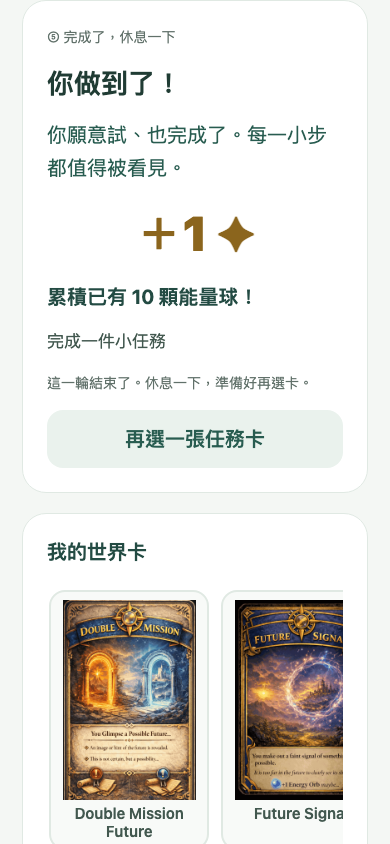
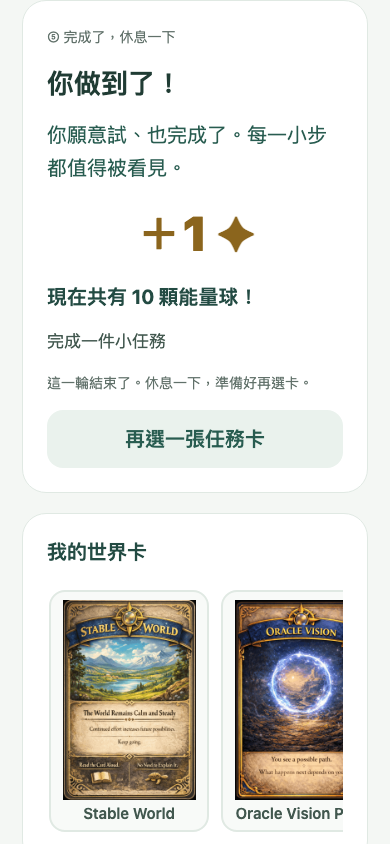
feat: add guardian collection and Sunday exchange [actor=bot approval=user:guardian-album]

diff --git a/src/LightApp.tsx b/src/LightApp.tsx
@@ -2,15 +2,28 @@ import React, { useEffect, useRef, useState } from 'react';
 import { Image, Modal, Pressable, SafeAreaView, ScrollView, StyleSheet, Text, TextInput, View } from 'react-native';
 import AsyncStorage from '@react-native-async-storage/async-storage';
 import { loadPersistedAppState } from './lib/persistence';
-import { coreGuardianArchetypeImages, coreGuardianStageImages, timeChallenges, worldEvents, sopCards, badgeImages } from './data/holtonCatalog';
+import { coreGuardianArchetypeImages, coreGuardianStageImages, timeChallenges, worldEvents, sopCards, badgeImages, guardianBeasts } from './data/holtonCatalog';
 import type { PersistedAppState } from './types/holton';
 
 const KEY = 'holton-guardian-app::light-v1';
 type RecordItem = { id: string; title: string; at: string; minutes: number; cardId?: string };
 type WorldDraw = { id: string; reason: string; cardId?: string };
-type State = { dailyGoal?: number; rewardProgress?: number; dailyRewardDay?: string; draws?: WorldDraw[]; collection?: WorldDraw[]; version: 1; cardId?: string; title: string; minutes: number; orbs: number; phase: 'ready' | 'preparing' | 'active' | 'finishing' | 'done'; deadline: number | null; remaining: number; help: boolean; history: RecordItem[]; guardian: Partial<PersistedAppState> };
+type GuardianReceipt = { cardId: string; at: string; cost: number; source: 'legacy' | 'parent-restore' | 'sunday' };
+type State = { guardianCards?: GuardianReceipt[]; companionCardId?: string; starterRestoreAt?: string; dailyGoal?: number; rewardProgress?: number; dailyRewardDay?: string; draws?: WorldDraw[]; collection?: WorldDraw[]; version: 1; cardId?: string; title: string; minutes: number; orbs: number; phase: 'ready' | 'preparing' | 'active' | 'finishing' | 'done'; deadline: number | null; remaining: number; help: boolean; history: RecordItem[]; guardian: Partial<PersistedAppState> };
 const day = (date: Date) => `${date.getFullYear()}-${date.getMonth()}-${date.getDate()}`;
 const initial = (old: Partial<PersistedAppState> | null): State => ({ version: 1, title: '', minutes: 5, orbs: typeof old?.orbs === 'number' ? old.orbs : 0, phase: 'ready', deadline: null, remaining: 300, help: false, history: [], guardian: { coreGuardianName: old?.coreGuardianName, coreGuardianId: old?.coreGuardianId, coreGuardianArchetype: old?.coreGuardianArchetype, coreGuardianStateVariant: old?.coreGuardianStateVariant, coreGuardianLevel: old?.coreGuardianLevel } });
+
+const guardianCards = guardianBeasts.flatMap(beast => beast.stages.map((stage, index) => ({
+  id: `${beast.id}:${index}`, beastId: beast.id, name: beast.name, vibe: beast.vibe, index, label: stage.label, cost: stage.cost,
+  image: coreGuardianStageImages[beast.id as keyof typeof coreGuardianStageImages][(['stage1', 'stage2', 'stage3', 'stage4'] as const)[index]],
+})));
+const taipeiWeekday = (time: number) => new Intl.DateTimeFormat('en-US', { timeZone: 'Asia/Taipei', weekday: 'short' }).format(time);
+function importGuardianCards(old: Partial<PersistedAppState> | null): GuardianReceipt[] {
+  return guardianCards.filter(card => {
+    const points = old?.guardianProgress?.[card.beastId]?.orbs;
+    return (card.index === 0 && old?.guardianCatalog?.[card.beastId]?.status === 'captured') || (typeof points === 'number' && Number.isFinite(points) && points >= card.cost);
+  }).map(card => ({ cardId: card.id, at: new Date().toISOString(), cost: 0, source: 'legacy' }));
+}
 
 export default function LightApp() {
   const [state, setState] = useState<State | null>(null);
@@ -26,6 +39,8 @@ export default function LightApp() {
   const [saving, setSaving] = useState(false);
   const [error, setError] = useState('');
   const [parent, setParent] = useState(false);
+  const [collectionOpen, setCollectionOpen] = useState(false);
+  const [guardianDetailId, setGuardianDetailId] = useState<string | null>(null);
   const [title, setTitle] = useState('');
   const [minutes, setMinutes] = useState('5');
   const [goal, setGoal] = useState('3');
@@ -38,7 +53,13 @@ export default function LightApp() {
         const raw = await AsyncStorage.getItem(KEY);
         const data: State = raw ? JSON.parse(raw) : initial(await loadPersistedAppState());
         if (data.version !== 1 || !Array.isArray(data.history) || !['ready', 'preparing', 'active', 'finishing', 'done'].includes(data.phase) || !Number.isFinite(data.orbs)) throw new Error('Invalid state');
-        if (!raw) await AsyncStorage.setItem(KEY, JSON.stringify(data));
+        if (!data.guardianCards) {
+          const old = await loadPersistedAppState();
+          data.guardianCards = importGuardianCards(old);
+          const companion = guardianBeasts.find(beast => old?.guardianCatalog?.[beast.id]?.companion);
+          data.companionCardId = companion ? data.guardianCards.filter(item => item.cardId.startsWith(`${companion.id}:`)).at(-1)?.cardId : undefined;
+          await AsyncStorage.setItem(KEY, JSON.stringify(data));
+        } else if (!raw) await AsyncStorage.setItem(KEY, JSON.stringify(data));
         if (live) { current.current = data; setState(data); setTitle(data.title); setMinutes(String(data.minutes)); setGoal(String(data.dailyGoal ?? 3)); }
       } catch { if (live) setError('資料暫時無法讀取，請重新整理。原有紀錄未變更。'); }
     })();
@@ -65,6 +86,27 @@ export default function LightApp() {
   const durationLabel = (n: number) => n === 0 ? '不限時' : `${n} 分鐘`;
   const today = state.history.filter(item => day(new Date(item.at)) === day(new Date(now)));
   const pending = state.draws?.[0];
+  const ownedIds = new Set((state.guardianCards ?? []).map(item => item.cardId));
+  const companion = guardianCards.find(card => card.id === state.companionCardId && ownedIds.has(card.id));
+  const detail = guardianCards.find(card => card.id === guardianDetailId);
+  const sunday = taipeiWeekday(now) === 'Sun';
+  const starterMissing = guardianCards.filter(card => card.index === 0 && !ownedIds.has(card.id));
+  function restoreStarters() {
+    void change(s => {
+      if (s.starterRestoreAt) return s;
+      const at = new Date().toISOString();
+      const existing = new Set((s.guardianCards ?? []).map(item => item.cardId));
+      return { ...s, starterRestoreAt: at, guardianCards: [...(s.guardianCards ?? []), ...guardianCards.filter(card => card.index === 0 && !existing.has(card.id)).map(card => ({ cardId: card.id, at, cost: 0, source: 'parent-restore' as const }))] };
+    });
+  }
+  function buyGuardian(cardId: string) {
+    void change(s => {
+      const card = guardianCards.find(item => item.id === cardId);
+      const owned = new Set((s.guardianCards ?? []).map(item => item.cardId));
+      if (!card || taipeiWeekday(Date.now()) !== 'Sun' || owned.has(cardId) || s.orbs < card.cost || (card.index > 0 && !owned.has(`${card.beastId}:${card.index - 1}`))) return s;
+      return { ...s, orbs: s.orbs - card.cost, guardianCards: [...(s.guardianCards ?? []), { cardId, cost: card.cost, at: new Date().toISOString(), source: 'sunday' }] };
+    });
+  }
   const drawnCard = worldEvents.find(card => card.id === pending?.cardId);
   function completeTask(s: State): State {
     if (s.phase !== 'finishing') return s;
@@ -93,6 +135,10 @@ export default function LightApp() {
     {error ? <Text accessibilityRole="alert" style={styles.error}>{error}</Text> : null}
     {parent ? <>
       <Text style={styles.heading}>陪他完成，不必催他加速。</Text>
+      <View style={styles.card}><Text style={styles.section}>守護獸收藏與舊卡恢復</Text><Text style={styles.body}>目前收藏 {ownedIds.size} 張。舊版能確認的卡片會自動帶入；更換陪伴夥伴不扣點，也不改變本命獸。</Text>{button('查看守護獸收藏', () => setCollectionOpen(true), true)}
+        {starterMissing.length > 0 && !state.starterRestoreAt ? <><Text style={styles.caption}>若孩子以前已兌換完五隻 Mini 初階卡，可由家長補回缺少的 {starterMissing.length} 張。只補卡，不扣點、不重複發卡。</Text>{button('補回已兌換的五隻初階卡', restoreStarters, true)}</> : <Text style={styles.caption}>初階收藏已保留，不需要重新購買。</Text>}
+        <Text style={styles.caption}>星期日兌換以台北時間為準。Mini 10、Mid 20、Final 40、Legendary 60 點；每張扣完整標示點數，按階段取得，舊卡仍保留。</Text>
+      </View>
       <View style={styles.card}><Text style={styles.section}>1 · 設定今天的一件事</Text><Text style={styles.body}>寫一件做得到的小事，例如「收好桌上的積木」。</Text>
         <Text style={styles.label}>任務名稱</Text><TextInput accessibilityLabel="任務名稱" value={title} onChangeText={setTitle} maxLength={80} editable={!['preparing', 'active', 'finishing'].includes(state.phase)} style={styles.input} placeholder="今天想完成的小事" />
         <Text style={styles.label}>建議時間（分鐘，0 為不限時）</Text><TextInput accessibilityLabel="陪伴時間（分鐘）" value={minutes} onChangeText={setMinutes} keyboardType="number-pad" editable={!['preparing', 'active', 'finishing'].includes(state.phase)} style={styles.input} />
@@ -105,9 +151,9 @@ export default function LightApp() {
       <View style={styles.card}><Text style={styles.section}>2 · 卡住時，這樣陪他說</Text><Text style={styles.quote}>「我在這裡。我們先做最小的一步，你想自己試，還是一起做？」</Text><Text style={styles.body}>時間到了也不用扣分。先看看需要幫忙，還是多一點時間。</Text></View>
       <View style={styles.card}><Text style={styles.section}>3 · 今天完成 {today.length} 件事</Text>{today.length ? today.map(item => <View key={item.id} style={styles.record}><Text style={styles.body}>✓ {item.title}</Text><Text style={styles.caption}>{new Date(item.at).toLocaleTimeString('zh-TW', { hour: '2-digit', minute: '2-digit' })} · {durationLabel(item.minutes)}{item.cardId ? ` · ${timeChallenges.find(card => card.id === item.cardId)?.name || "任務卡"}` : ""} · ＋1 能量球</Text></View>) : <Text style={styles.body}>今天還沒有完成紀錄，慢慢來就好。</Text>}<Text style={styles.caption}>輕量版紀錄保存在這台裝置、這個瀏覽器；舊版資料保留。</Text></View>
     </> : <>
-      <View style={styles.scorePanel} accessibilityLiveRegion="polite"><Text style={styles.section}>我的累積能量球</Text><Text style={styles.score}>✦ {state.orbs}</Text><Text style={styles.body}>今天 ＋{today.length} 顆 · 每次完成 ＋1</Text><Text style={styles.section}>今日任務 {today.length} / {state.dailyGoal ?? 3} {today.length >= (state.dailyGoal ?? 3) ? '✓ 全完成' : ''}</Text><Text style={styles.body}>{'● '.repeat(state.rewardProgress ?? 0)}{'○ '.repeat(3 - (state.rewardProgress ?? 0))} 再完成 {3 - (state.rewardProgress ?? 0)} 次抽世界卡</Text><Text style={styles.caption}>今天全完成也能抽卡 · 已收藏 {state.collection?.length ?? 0} 張</Text></View>
-      <View style={styles.companion}><Image accessibilityLabel="陪伴你的本命獸" source={guardianImage} style={styles.guardian} resizeMode="contain" /><Text style={styles.guardianName}>{guardian.coreGuardianName || '你的本命獸'}</Text><Text style={styles.body}>我陪你，一次完成一件小事。</Text></View>
-      <View onLayout={event => { taskTop.current = event.nativeEvent.layout.y; }} style={styles.card}><Text style={styles.caption}>{state.phase === 'ready' ? '① 選一張任務卡' : state.phase === 'preparing' ? '② 準備好再開始' : state.phase === 'active' ? '③ 一起做這件事' : state.phase === 'finishing' ? '④ 把任務收好' : '⑤ 完成了，休息一下'}</Text><Text style={styles.heading}>{state.phase === 'done' ? '你做到了！' : state.title || '今天想一起做什麼？'}</Text>
+      <View style={styles.scorePanel} accessibilityLiveRegion="polite"><Text style={styles.section}>我的可用能量球</Text><Text style={styles.score}>✦ {state.orbs}</Text><Text style={styles.body}>今天 ＋{today.length} 顆 · 每次完成 ＋1</Text><Text style={styles.caption}>守護獸兌換已用 {(state.guardianCards ?? []).filter(item => item.source === 'sunday').reduce((sum, item) => sum + item.cost, 0)} 點</Text><Text style={styles.section}>今日任務 {today.length} / {state.dailyGoal ?? 3} {today.length >= (state.dailyGoal ?? 3) ? '✓ 全完成' : ''}</Text><Text style={styles.body}>{'● '.repeat(state.rewardProgress ?? 0)}{'○ '.repeat(3 - (state.rewardProgress ?? 0))} 再完成 {3 - (state.rewardProgress ?? 0)} 次抽世界卡</Text><Text style={styles.caption}>今天全完成也能抽卡 · 已收藏 {state.collection?.length ?? 0} 張</Text></View>
+      <View style={styles.companion}><Text style={styles.section}>{companion ? '今日守護夥伴' : '你的本命獸'}</Text><Image accessibilityLabel={companion ? `${companion.name} ${companion.label} 今日守護夥伴` : '陪伴你的本命獸'} source={companion?.image ?? guardianImage} style={companion ? styles.companionArt : styles.guardian} resizeMode="contain" /><Text style={styles.guardianName}>{companion ? `${companion.name} · ${companion.label}` : guardian.coreGuardianName || '你的本命獸'}</Text><Text style={styles.body}>我陪你，一次完成一件小事。</Text>{companion ? <Text style={styles.caption}>本命獸：{guardian.coreGuardianName || '你的本命獸'} · 身分保留</Text> : null}{button('我的守護獸收藏', () => setCollectionOpen(true), true)}</View>
+      <View onLayout={event => { taskTop.current = event.nativeEvent.layout.y; }} style={styles.card}><Text style={styles.caption}>{state.phase === 'ready' ? '① 選一張任務卡' : state.phase === 'preparing' ? '② 準備好再開始' : state.phase === 'active' ? '③ 一起做這件事' : state.phase === 'finishing' ? '④ 把任務收好' : '⑤ 完成了，休息一下'}</Text>{companion && ['preparing', 'active', 'finishing'].includes(state.phase) ? <View style={styles.companionRow}><Image source={companion.image} accessibilityLabel={`${companion.name} 陪你做任務`} style={styles.companionThumb} resizeMode="contain" /><Text style={styles.caption}>{companion.name} 陪你一起做</Text></View> : null}<Text style={styles.heading}>{state.phase === 'done' ? '你做到了！' : state.title || '今天想一起做什麼？'}</Text>
       {state.phase === 'ready' ? <>
         <Text style={styles.body}>{state.title ? '今天做這件事，時間由你選。' : '先想好一件小事，再選一張卡陪你完成。家長也能幫你填任務。'}</Text>
         <Text style={styles.caption}>左右滑動選卡 · 每完成一輪 ＋1 能量球</Text>
@@ -136,11 +182,26 @@ export default function LightApp() {
         <Text style={styles.body}>{state.help ? '先停一下，我們一起來。' : state.minutes !== 0 && remaining === 0 ? '時間到了。還沒做好也沒關係，可以慢慢完成。' : '照自己的速度來。'}</Text>
         {state.help ? <><Text style={styles.quote}>「我在這裡。我們先做最小的一步，好嗎？」</Text>{button('我準備好了，繼續', () => void change(s => ({ ...s, help: false, deadline: s.minutes === 0 ? null : Date.now() + s.remaining * 1000 })), true)}</> : button('我需要幫忙', () => void change(s => ({ ...s, help: true, remaining: s.deadline ? Math.max(0, Math.ceil((s.deadline - Date.now()) / 1000)) : s.remaining, deadline: null })), true)}
         {button('完成', () => void change(s => s.phase !== 'active' ? s : ({ ...s, phase: 'finishing', remaining: s.deadline ? Math.max(0, Math.ceil((s.deadline - Date.now()) / 1000)) : s.remaining, deadline: null, help: false })))}
-      </> : <><Text style={styles.quote}>你願意試、也完成了。每一小步都值得被看見。</Text><Text style={styles.score}>＋1 ✦</Text><Text style={styles.section}>累積已有 {state.orbs} 顆能量球！</Text><Text style={styles.body}>{state.title}</Text><Text style={styles.caption}>這一輪結束了。休息一下，準備好再選卡。</Text>{button('再選一張任務卡', () => void change(s => ({ ...s, phase: 'ready', deadline: null, help: false, remaining: s.minutes * 60 })), true)}</>}
+      </> : <><Text style={styles.quote}>你願意試、也完成了。每一小步都值得被看見。</Text><Text style={styles.score}>＋1 ✦</Text><Text style={styles.section}>現在共有 {state.orbs} 顆能量球！</Text><Text style={styles.body}>{state.title}</Text><Text style={styles.caption}>這一輪結束了。休息一下，準備好再選卡。</Text>{button('再選一張任務卡', () => void change(s => ({ ...s, phase: 'ready', deadline: null, help: false, remaining: s.minutes * 60 })), true)}</>}
       </View>
     </>}
       {!parent && !!state.collection?.length ? <View style={styles.card}><Text style={styles.section}>我的世界卡</Text><ScrollView horizontal contentContainerStyle={styles.deck}>{state.collection.map(item => { const card = worldEvents.find(c => c.id === item.cardId); return card ? <View key={item.id} style={styles.taskCard}><Image source={card.imageSource} accessibilityLabel={card.title} resizeMode="contain" style={styles.cardArt} /><Text style={styles.cardName}>{card.title}</Text></View> : null; })}</ScrollView></View> : null}
   </ScrollView>
+    <Modal visible={collectionOpen && !pending} animationType="slide" onRequestClose={() => { if (guardianDetailId) setGuardianDetailId(null); else setCollectionOpen(false); }}><SafeAreaView style={styles.root}><ScrollView contentContainerStyle={styles.page}>
+      <Text style={styles.heading}>我的守護獸收藏</Text><Text style={styles.section}>✦ 可用能量球 {state.orbs}</Text>
+      {button('回到任務', () => { setCollectionOpen(false); setGuardianDetailId(null); }, true)}
+      {error ? <Text accessibilityRole="alert" style={styles.error}>{error}</Text> : null}
+      {detail ? <View style={styles.card}><Image source={detail.image} accessibilityLabel={`${detail.name} ${detail.label} 大圖`} style={styles.rewardArt} resizeMode="contain" /><Text style={styles.section}>{detail.name} · {detail.label}</Text><Text style={styles.body}>{detail.vibe}</Text>
+        {ownedIds.has(detail.id) ? <><Text style={styles.body}>✓ 已收藏 · 選出陪伴不扣點、不消耗卡片。</Text>{button(state.companionCardId === detail.id ? '正在陪伴你' : '今天陪我', () => void change(s => !(s.guardianCards ?? []).some(item => item.cardId === detail.id) ? s : ({ ...s, companionCardId: detail.id })), false, state.companionCardId === detail.id)}</> : <><Text style={styles.section}>兌換需要 {detail.cost} 點</Text><Text style={styles.body}>{!sunday ? '星期日開放兌換，平日也能欣賞卡片。' : detail.index > 0 && !ownedIds.has(`${detail.beastId}:${detail.index - 1}`) ? '先收藏上一階，再來迎接這張卡。' : state.orbs < detail.cost ? `還差 ${detail.cost - state.orbs} 點，慢慢累積就好。` : '確認兌換後會扣點，卡片永久留在收藏裡。'}</Text>{button(`確認兌換 · ${detail.cost} 點`, () => buyGuardian(detail.id), false, !sunday || state.orbs < detail.cost || (detail.index > 0 && !ownedIds.has(`${detail.beastId}:${detail.index - 1}`)))}</>}
+        {button('回到卡冊', () => setGuardianDetailId(null), true)}
+      </View> : <>
+        <Text style={styles.body}>已收藏 {ownedIds.size} 張 · 點卡片看大圖，再選「今天陪我」。</Text>
+        {ownedIds.size ? <ScrollView horizontal contentContainerStyle={styles.deck}>{guardianCards.filter(card => ownedIds.has(card.id)).map(card => <Pressable key={card.id} accessibilityRole="button" accessibilityLabel={`查看已收藏 ${card.name} ${card.label}`} onPress={() => setGuardianDetailId(card.id)} style={[styles.taskCard, state.companionCardId === card.id && styles.selectedCard]}><Image source={card.image} style={styles.cardArt} resizeMode="contain" /><Text style={styles.cardName}>{card.name}</Text><Text style={styles.section}>{card.label}</Text><Text style={styles.caption}>{state.companionCardId === card.id ? '✓ 今日守護夥伴' : '已收藏'}</Text></Pressable>)}</ScrollView> : <Text style={styles.body}>還沒有收藏。以前已兌換的五隻初階卡，可請家長到入口補回。</Text>}
+        {companion ? button('改由本命獸陪我', () => void change(s => ({ ...s, companionCardId: undefined })), true) : null}
+        <Text style={styles.section}>星期日兌換 · 尚未收藏</Text><Text style={styles.caption}>{sunday ? '今天開放兌換！點卡片查看，再確認扣點。' : '台北時間星期日開放；現在可以先看想收藏的卡。'} 每階卡片獨立收藏，依序兌換。</Text>
+        <ScrollView horizontal contentContainerStyle={styles.deck}>{guardianCards.filter(card => !ownedIds.has(card.id)).map(card => <Pressable key={card.id} accessibilityRole="button" accessibilityLabel={`查看待兌換 ${card.name} ${card.label}`} onPress={() => setGuardianDetailId(card.id)} style={styles.taskCard}><Image source={card.image} style={styles.cardArt} resizeMode="contain" /><Text style={styles.cardName}>{card.name}</Text><Text style={styles.section}>{card.label} · {card.cost} 點</Text><Text style={styles.caption}>尚未收藏</Text></Pressable>)}</ScrollView>
+      </>}
+    </ScrollView></SafeAreaView></Modal>
     <Modal visible={!!pending} transparent animationType="fade" onRequestClose={() => {}}><View style={styles.overlay}><ScrollView contentContainerStyle={styles.modalScroll}><View style={styles.card}>
       <Text style={styles.heading}>{drawnCard ? '你的世界卡！' : '可以抽世界卡了！'}</Text><Text style={styles.body}>{pending?.reason}</Text>
       {error ? <Text accessibilityRole="alert" style={styles.error}>{error}</Text> : null}
@@ -155,6 +216,7 @@ export default function LightApp() {
   </SafeAreaView>;
 }
 const styles = StyleSheet.create({
+  companionArt: { width: 180, height: 250 }, companionRow: { flexDirection: 'row', alignItems: 'center', gap: 10 }, companionThumb: { width: 48, height: 66 },
   ritualArt: { width: '100%', height: 280 },
   scorePanel: { backgroundColor: '#fff4cc', borderRadius: 24, padding: 22, gap: 8, alignItems: 'center' }, score: { fontSize: 48, fontWeight: '900', color: '#8b651d', textAlign: 'center' },
   overlay: { flex: 1, backgroundColor: 'rgba(20,40,32,0.7)', justifyContent: 'center' }, modalScroll: { flexGrow: 1, justifyContent: 'center', padding: 20, width: '100%', maxWidth: 520, alignSelf: 'center' }, rewardArt: { width: '100%', height: 300 },

diff --git a/reports/light-v1/REVIEW.md b/reports/light-v1/REVIEW.md
@@ -49,3 +49,11 @@ Checks: typecheck and component ESLint pass; Expo export passes. Browser 390×84
 - Existing light records, balances, collection and pending draws retained without reset. Existing active tasks continue normally.
 - TypeScript, component lint, export and browser regression at 390×844 passed: preparation wait/reload, back to picker, explicit timer start, finish/reload without reward, parent edit lock, resume/help, duplicate clicks, untimed resume, third/sixth and daily draws, pending/revealed reload, no overflow. Screenshots task-starter.png and finish-line.png inspected.
 - Public verification: Pages commit 16bcc05 built successfully; public bundle matched export. Full ritual/reward browser regression passed on the public URL using isolated test storage; user data untouched.
+
+## Guardian collection / Sunday exchange — 2026-10-18
+- Approved guardian album with original five species × four stage images. Owned and unowned separated; full-card detail; free persistent companion selection on home and task. Core guardian identity remains independent.
+- One-time migration for existing light saves reads old captured catalog (Mini) and stage-growth thresholds (earned stages), retaining light balance/history/core, never writing legacy snapshots. No assumed ownership for new profiles.
+- User reports all five Mini already earned: parent action restores missing five starter cards once, with zero cost and no duplicates when legacy evidence is absent. Actual user device records cannot be inspected remotely; this action runs in their browser.
+- No Sunday redemption ledger was found in legacy source. New Sunday exchange uses catalog stage values 10/20/40/60 as full per-card prices, requires previous stage, preserves lower cards. Asia/Taipei Sunday checked at render and transaction. Purchase debit and receipt saved atomically; double click guard; no re-purchase. Free companion changes do not alter core identity or inventory.
+- Point display now states available balance and records points spent on new exchanges, avoiding ambiguity after spending.
+- TypeScript/component lint/export passed. Isolated browser at 390×844 verified fresh profile, five-card restore/reload, free selection, home/task presence, positive and partial legacy migration, legacy byte preservation, existing light balance/history/core preservation, Sunday purchase once, insufficient funds, prerequisites, Monday blocked, refresh, no horizontal overflow. CDP Page domain explicitly enabled before virtual weekday checks. Original ritual/reward regression also passed. guardian-collection.png / guardian-detail.png inspected.
